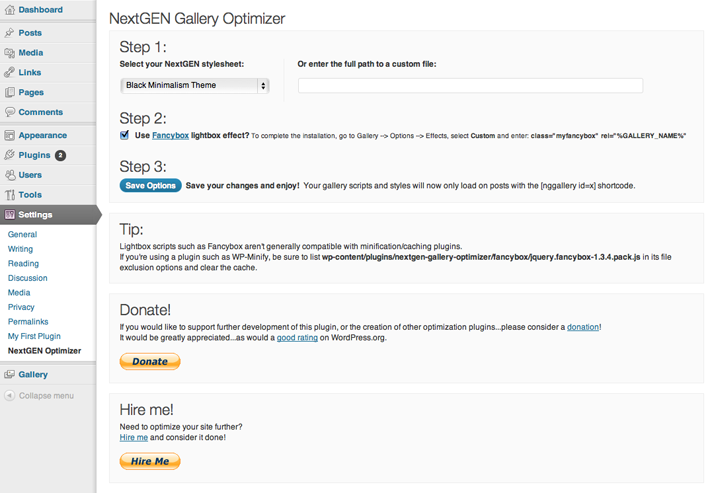
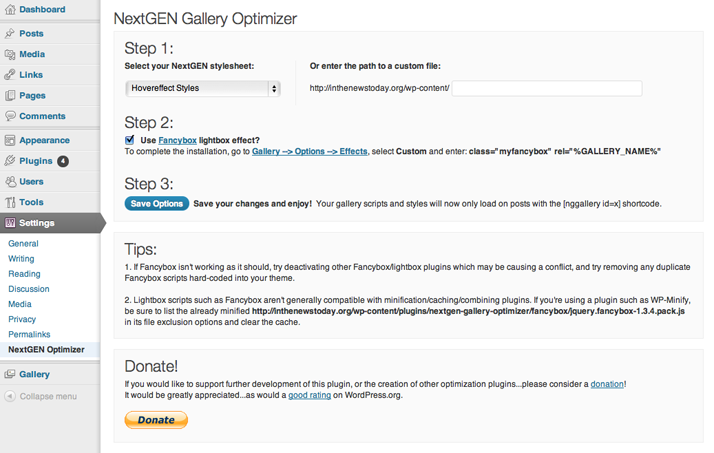
git-svn-id: https://plugins.svn.wordpress.org/nextgen-gallery-optimizer/trunk@516993 b8457f37-d9ea-0310-8a92-e5e31aec5664

diff --git a/nextgen-optimizer-functions.php b/nextgen-optimizer-functions.php
@@ -1,91 +1,78 @@
 <?php
 
-/* remove nextgen gallery scripts [works on nextgen 1.6.2 and above] */
-function remove_nextgen_js() { if ( !is_admin() ) { define('NGG_SKIP_LOAD_SCRIPTS', true); } }
+/**********************************************************************
+* remove nextgen gallery scripts [works on nextgen 1.6.2 and above]
+**********************************************************************/
+
+function remove_nextgen_js() {
+	if (!is_admin()) {
+			define('NGG_SKIP_LOAD_SCRIPTS', true);
+	}
+}
 add_action('init', 'remove_nextgen_js');
 
-/* remove nextgen gallery styles */
-function remove_nextgen_css() { wp_deregister_style('NextGEN'); }
+
+
+/**********************************************************************
+* remove nextgen gallery styles
+**********************************************************************/
+
+function remove_nextgen_css() {
+	wp_deregister_style('NextGEN');
+}
 add_action('wp_print_styles', 'remove_nextgen_css', 100);
 
-/* remove nextgen version comment from header [works on nextgen 1.9.0 and above] */
-remove_action('wp_head', array('nggGallery', 'nextgen_version') );
 
 
-/* check if post contains shortcode for nextgen gallery */
-function check_nextgen_shortcode( $shortcode = nggallery ) {
+/**********************************************************************
+* check if post contains [nggallery id=x] shortcode
+**********************************************************************/
 
+function nggo_check_nggallery_shortcode( $shortcode = nggallery ) {
 global $nextgen_optimizer_options;
+	
+	if (!is_admin()) {
+    $post = get_post( get_the_ID() );
 
-if (!is_admin()) {
-    	
-$post = get_post( get_the_ID() );
-
-// check post content for [nggallery id=x] shortcode 
-if ( stripos( $post->post_content, '[' . $shortcode ) !== FALSE ) {
+		// check post content for [nggallery id=x] shortcode 
+		if ( stripos( $post->post_content, '[' . $shortcode ) !== FALSE ) {
  
-
-
-if(isset($nextgen_optimizer_options['fancybox'])) {
-	if($nextgen_optimizer_options['fancybox'] == true) {
-
-echo '
-<!-- [start nextgen gallery optimizer] This post must contain an image gallery...else we wouldn\'t be serving its scripts and styles! -->
-<script type="text/javascript" src="http://ajax.googleapis.com/ajax/libs/jquery/1.7.1/jquery.min.js"></script>
-<script type="text/javascript" src="' . plugins_url( 'fancybox/jquery.fancybox-1.3.4.pack.js' , __FILE__) . '"></script>
-<link rel="stylesheet" href="' . plugins_url( 'css/jquery.fancybox-1.3.4.css' , __FILE__) . '" type="text/css" media="screen" />';
-echo "\n"; ?>
-<script type='text/javascript'>$(document).ready(function() { $("a.myfancybox").fancybox({ 'zoomSpeedIn': 500, 'zoomSpeedOut': 500, 'overlayShow':true,'overlayOpacity':0.3 }); });</script>
-<?php
-		}
-	}
-
-
-$nggo_comment = "\n";
-$nggo_comment .= '<!-- [start nextgen gallery optimizer] This post must contain an image gallery...else we wouldn\'t be serving its stylesheet! -->';
-$nggo_comment .= "\n";
-
-
-
-if($nextgen_optimizer_options['css'] != "") {
-	
-	if(!isset($nextgen_optimizer_options['fancybox'])) {
-	echo $nggo_comment;
-	}
-	
-echo '<link rel="stylesheet" href="' . $nextgen_optimizer_options['css'] . '" type="text/css" media="screen" />';
-echo "\n\n";
-
-} else {
-
-		$nggo_theme = $nextgen_optimizer_options['theme'];
-
-		if($nggo_theme == "") { }
-		if($nggo_theme == "Black Minimalism Theme") { $nggo_css = "Black_Minimalism.css"; }
-		if($nggo_theme == "Default Styles") { $nggo_css = "nggallery.css"; }
-		if($nggo_theme == "Dkret3 Theme") { $nggo_css = "ngg_dkret3.css"; }
-		if($nggo_theme == "Hovereffect Styles") { $nggo_css = "hovereffect.css"; }
-		if($nggo_theme == "K2 Theme") { $nggo_css = "ngg_k2.css"; }
-		if($nggo_theme == "Shadow Effect") { $nggo_css = "ngg_shadow.css"; }
-		if($nggo_theme == "Shadow Effect with Description Text") { $nggo_css = "ngg_shadow2.css"; }
-
-		if ($nggo_theme != "") {
-
-			if(!isset($nextgen_optimizer_options['fancybox'])) {
-			echo $nggo_comment;
+			if(isset($nextgen_optimizer_options['fancybox'])) {
+				if($nextgen_optimizer_options['fancybox'] == true) {
+					
+					// see scripts-and-styles.php for functions
+					add_action('wp_enqueue_scripts', 'nggo_fancybox_scripts', 999);
+					add_action('wp_print_styles', 'nggo_fancybox_style', 999);
+					add_action('wp_head','nggo_fancybox_inline_js', 999);
+				}
 			}
 
+			if($nextgen_optimizer_options['css'] != "") {
+				
+				add_action('wp_print_styles', 'nggo_custom_style', 999); // see scripts-and-styles.php for function 
+	
+			} else {
 
+				$nggo_theme = $nextgen_optimizer_options['theme'];
 
-		echo '<link rel="stylesheet" href="' .plugins_url( 'nextgen-gallery/css/' . $nggo_css . '' , dirname(__FILE__) ). '" type="text/css" media="screen" /> ';
-		echo "\n\n";
-		} else {
-		echo "\n";
-		}
+				if($nggo_theme == "") { }
+				if($nggo_theme == "Black Minimalism Theme") { define( 'NGGO_NEXTGEN_CSS', 'Black_Minimalism.css' ); }
+				if($nggo_theme == "Default Styles") { define( 'NGGO_NEXTGEN_CSS', 'nggallery.css' ); }
+				if($nggo_theme == "Dkret3 Theme") { define( 'NGGO_NEXTGEN_CSS', 'ngg_dkret3.css' ); }
+				if($nggo_theme == "Hovereffect Styles") { define( 'NGGO_NEXTGEN_CSS', 'hovereffect.css' ); }
+				if($nggo_theme == "K2 Theme") { define( 'NGGO_NEXTGEN_CSS', 'ngg_k2.css' ); }
+				if($nggo_theme == "Shadow Effect") { define( 'NGGO_NEXTGEN_CSS', 'ngg_shadow.css' ); }
+				if($nggo_theme == "Shadow Effect with Description Text") { define( 'NGGO_NEXTGEN_CSS', 'ngg_shadow2.css' ); }
 
-} // close if/else statement
-} // close regex
-} // close if is_single
+				if ($nggo_theme != "") {
+					 
+					add_action('wp_print_styles', 'nggo_nextgen_style', 999); // see scripts-and-styles.php for function
+				
+				}
+
+			} // close if/else statement
+		} // close regex
+	} // close if not admin
 } // close check_nextgen_shortcode function
 
-add_action('wp_head','check_nextgen_shortcode');
+add_action('get_header','nggo_check_nggallery_shortcode');

diff --git a/nextgen-optimizer-options.php b/nextgen-optimizer-options.php
@@ -10,6 +10,7 @@ ob_start();
 <div class="wrap">
 <h2>NextGEN Gallery Optimizer</h2>
 
+
 	<div class="nggo_box">	
 		<form method="post" action="options.php">
 		<?php settings_fields('nextgen_optimizer_settings_group'); ?>
@@ -31,8 +32,8 @@ ob_start();
 			</div>
 			
 			<div class="nggo_custom_style">
-				<b>Or enter the full path to a custom file:</b>
-				<p><input id="nextgen_optimizer_settings[css]" name="nextgen_optimizer_settings[css]" type="text" size="70" value="<?php echo $nextgen_optimizer_options['css']; ?>"/></p>
+				<b>Or enter the path to a custom file:</b>
+				<p><?php echo content_url() ?>/ <input id="nextgen_optimizer_settings[css]" name="nextgen_optimizer_settings[css]" type="text" size="35" value="<?php echo $nextgen_optimizer_options['css']; ?>"/></p>
 			</div>
 			
 		</div>
@@ -40,9 +41,11 @@ ob_start();
 	<div class="clear"></div>
 			
 		<div class="nggo_inner">
-			<h2><?php _e('Step 2:', 'nextgen_optimizer_domain'); ?></h2>
+			<h2><?php _e('Step 2:', 'nggo_domain'); ?></h2>
 			<input id="nextgen_optimizer_settings[fancybox]" name="nextgen_optimizer_settings[fancybox]" type="checkbox" value="1" <?php checked(1, $nextgen_optimizer_options['fancybox']); ?> />
-			&nbsp;&nbsp;<b>Use <a href="http://fancybox.net" target="_blank">Fancybox</a> lightbox effect?</b>&nbsp;<small>To complete the installation, go to Gallery --> Options --> Effects, select <b>Custom</b> and enter: <b>class="myfancybox" rel="%GALLERY_NAME%"</b></small>
+			&nbsp;&nbsp;<b>Use <a href="http://fancybox.net" target="_blank">Fancybox</a> lightbox effect?</b>
+			<br>To complete the installation, go to <b><a href="<?php echo admin_url( 'admin.php?page=nggallery-options#effects' , __FILE__); ?>" target="_blank">Gallery --> Options --> Effects</a></b>, 
+			select <b>Custom</b> and enter: <b>class="myfancybox" rel="%GALLERY_NAME%"</b>
 		</div>
 				
 
@@ -54,11 +57,14 @@ ob_start();
 
 
 	<div class="nggo_box">
-		<h2><?php _e('Tip:', 'nextgen_optimizer_domain'); ?></h2>
-		Lightbox scripts such as Fancybox aren't generally compatible with minification/caching plugins.<br />
-		If you're using a plugin such as WP-Minify, be sure to list <b>wp-content/plugins/nextgen-gallery-optimizer/fancybox/jquery.fancybox-1.3.4.pack.js</b>
+		<h2><?php _e('Tips:', 'nggo_domain'); ?></h2>
+		1. If Fancybox isn't working as it should, try deactivating other Fancybox/lightbox plugins which may be causing a conflict, 
+		and try removing any duplicate Fancybox scripts hard-coded into your theme.<br /><br />
+		
+		2. Lightbox scripts such as Fancybox aren't generally compatible with minification/caching/combining plugins. 
+		If you're using a plugin such as WP-Minify, be sure to list the already minified <b><?php echo plugins_url( 'fancybox/jquery.fancybox-'.NGGO_FANCYBOX_VERSION.'.pack.js' , __FILE__); ?></b>
 		in its file exclusion options and clear the cache.
-	</div>	
+	</div>
 		
 </form>
 

diff --git a/nextgen-optimizer-scripts-and-styles.php b/nextgen-optimizer-scripts-and-styles.php
@@ -1,0 +1,65 @@
+<?php
+
+/**********************************************************************
+* fancybox (modified) stylesheet
+**********************************************************************/
+
+function nggo_fancybox_style() {
+	wp_register_style('nggo_fancybox.css', plugins_url('css/jquery.fancybox-'.NGGO_FANCYBOX_VERSION.'.css', __FILE__), false, NGGO_FANCYBOX_VERSION, 'screen');
+	wp_enqueue_style('nggo_fancybox.css');
+}
+
+
+
+/**********************************************************************
+* fancybox inline js
+**********************************************************************/
+
+function nggo_fancybox_inline_js() { ?>
+<!-- [nextgen gallery optimizer] This post must contain an image gallery...else we wouldn't be serving its scripts and styles -->
+<script type='text/javascript'>$(document).ready(function() { $('a.myfancybox').fancybox({ 'zoomSpeedIn': 500, 'zoomSpeedOut': 500, 'overlayShow':true,'overlayOpacity':0.3 }); });</script>
+<?php
+}
+
+
+
+/**********************************************************************
+* jquery & fancybox
+* + deregister other versions when we serve them to avoid conflicts
+**********************************************************************/
+
+function nggo_fancybox_scripts() {
+	wp_deregister_script('jquery');
+	wp_register_script('jquery', 'http://ajax.googleapis.com/ajax/libs/jquery/'.NGGO_JQUERY_VERSION.'/jquery.min.js', false, NGGO_JQUERY_VERSION);
+	wp_enqueue_script('jquery');
+	wp_deregister_script('fancybox');
+	wp_deregister_script('jquery.fancybox');
+	wp_deregister_script('jquery-fancybox');
+	wp_register_script('jquery.fancybox', plugins_url('fancybox/jquery.fancybox-'.NGGO_FANCYBOX_VERSION.'.pack.js', __FILE__), array('jquery'), NGGO_FANCYBOX_VERSION);
+	wp_enqueue_script('jquery.fancybox');
+}
+
+
+
+/**********************************************************************
+* custom style (as selected on settings page)
+**********************************************************************/
+
+function nggo_custom_style() {
+	global $nextgen_optimizer_options;
+	wp_register_style('custom.css', content_url($nextgen_optimizer_options['css'], dirname(__FILE__)), false, null, 'screen');
+	wp_enqueue_style('custom.css');
+}
+
+
+
+/**********************************************************************
+* nextgen gallery's styles (as selected on settings page)
+**********************************************************************/
+
+function nggo_nextgen_style() {
+	global $nextgen_optimizer_options;
+	global $nggo_css;
+	wp_register_style('nextgen.css', plugins_url( 'nextgen-gallery/css/' .NGGO_NEXTGEN_CSS. '' , dirname(__FILE__)), false, null, 'screen');
+	wp_enqueue_style('nextgen.css');
+}

diff --git a/nextgen-gallery-optimizer.php b/nextgen-gallery-optimizer.php
@@ -3,10 +3,27 @@
 Plugin Name: NextGEN Gallery Optimizer
 Description: Optimizes your site's page load speed by ensuring NextGEN Gallery's scripts and styles ONLY load on posts with the [nggallery id=x] shortcode. Also includes and integrates the fantastic Fancybox lightbox script, so now you can have gorgeous galleries AND a speedy site!
 Author: Mark Jeldi
+Version: 1.0.3
+
 Author URI: http://www.markstechnologynews.com
-Version: 1.0.2
-License: GPL
+
+Copyright 2012 Mark Jeldi | mark@markstechnologynews.com
+
+This program is free software; you can redistribute it and/or modify
+it under the terms of the GNU General Public License, version 2, as 
+published by the Free Software Foundation.
+
+This program is distributed in the hope that it will be useful,
+but WITHOUT ANY WARRANTY; without even the implied warranty of
+MERCHANTABILITY or FITNESS FOR A PARTICULAR PURPOSE.  See the
+GNU General Public License for more details.
+
+You should have received a copy of the GNU General Public License
+along with this program; if not, write to the Free Software
+Foundation, Inc., 51 Franklin St, Fifth Floor, Boston, MA  02110-1301  USA
+
 */
+
 
 /**************************************************
 * global variables
@@ -14,6 +31,9 @@ License: GPL
 
 $nextgen_optimizer_prefix = 'nextgen_optimizer_';
 $nextgen_optimizer_plugin_name = 'NextGEN Gallery Optimizer';
+
+define( 'NGGO_FANCYBOX_VERSION', '1.3.4' );
+define( 'NGGO_JQUERY_VERSION', '1.7.1' );
 
 // retrieve our plugin settings from the options table
 $nextgen_optimizer_options = get_option('nextgen_optimizer_settings');
@@ -26,6 +46,7 @@ $nextgen_optimizer_options = get_option('nextgen_optimizer_settings');
 
 include('nextgen-optimizer-functions.php'); // plugin functionality
 include('nextgen-optimizer-options.php'); // the plugin options page HTML, linked CSS and save functions
+include('nextgen-optimizer-scripts-and-styles.php'); // script and stylesheet include functions
 
 
 
